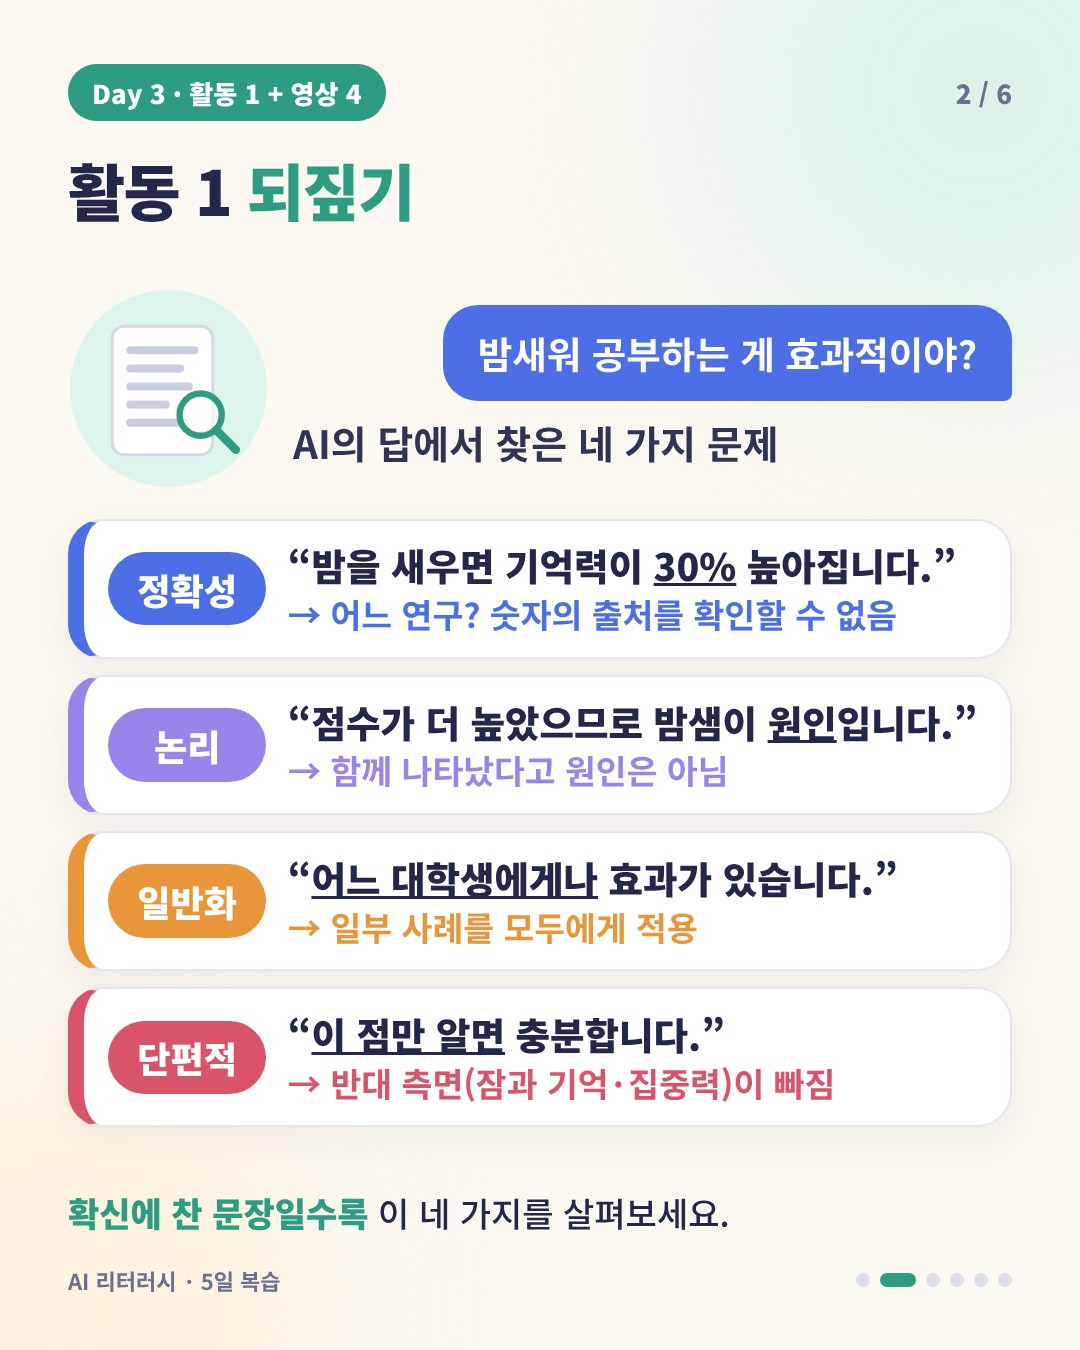
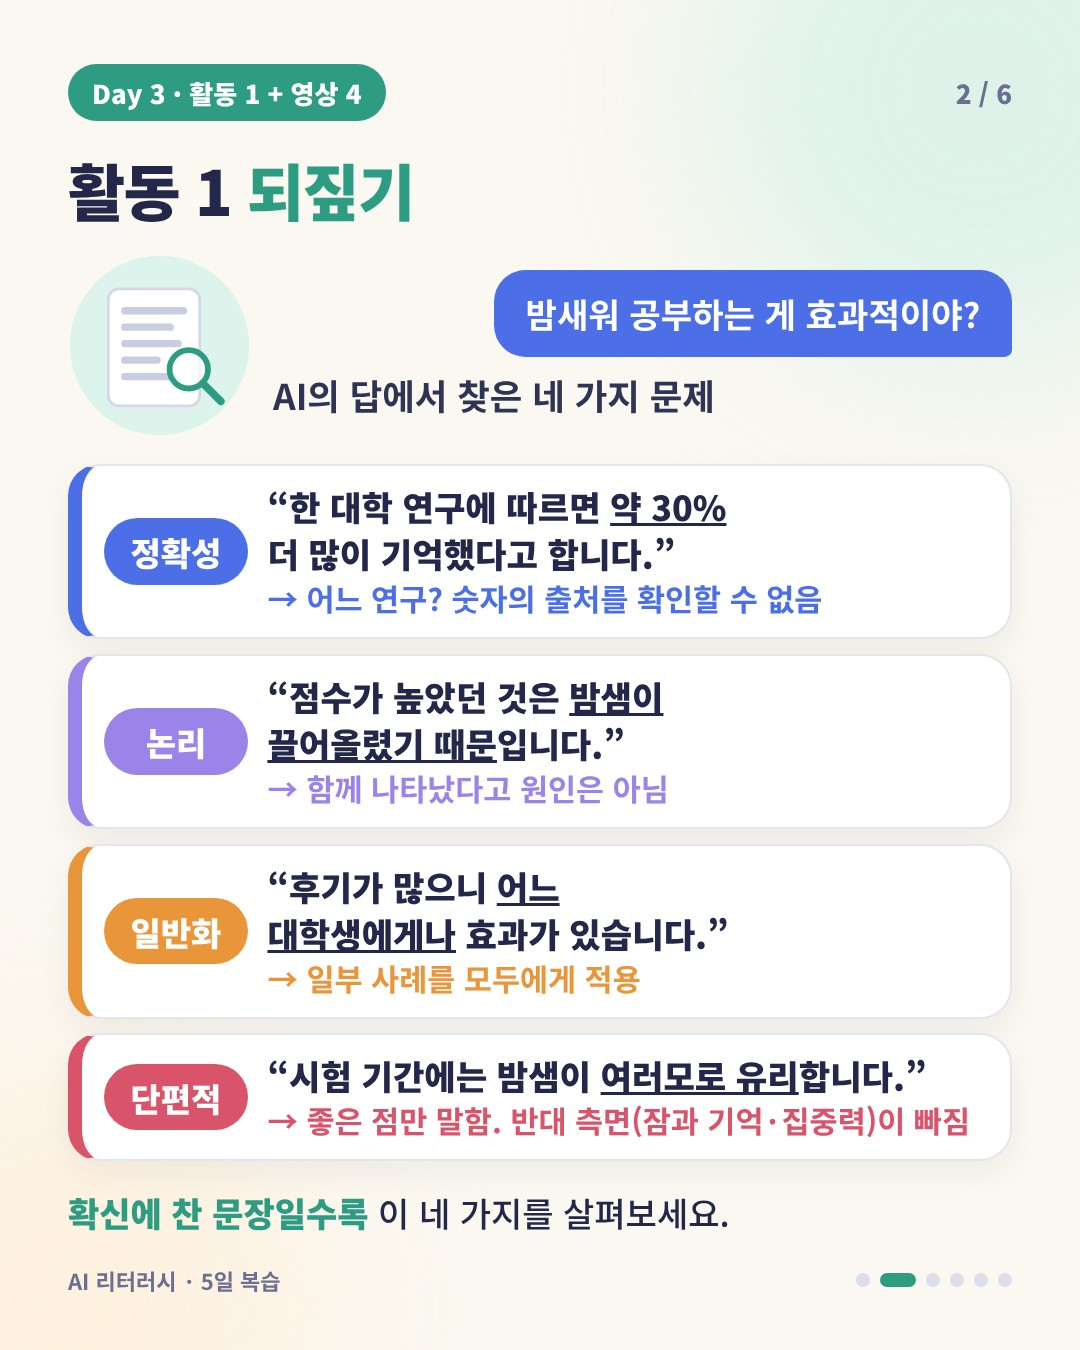
본실험 활동 1: AI 답변 문장을 더 그럴듯하게 수정 (문제 유형·정답은 그대로)
Day 3 카드뉴스 '활동 1 되짚기'도 새 문장에 맞춤.

Claude-Session: https://claude.ai/code/session_01Ufc7Ys7s9SLRNt97tr6RfZ

Changed region(s): [[0.0611, 0.1867, 0.9472, 0.8711]]

diff --git a/program-main.js b/program-main.js
@@ -177,10 +177,10 @@ function engageTrial(stepIdx, k) {
 const A1A_OPTS = ["두 가지가 함께 나타났다는 이유만으로 한쪽이 다른 쪽의 원인이라고 단정한다 (논리)", "좋은 점만 말하고 나쁜 점이나 반대되는 측면은 다루지 않는다 (단편적)",
   "어느 연구인지, 숫자가 어디서 나왔는지 확인할 수 없다 (정확성)", "일부 사례를 근거로 모든 사람에게 똑같이 통한다고 말한다 (일반화)", "문제없다"];
 const A1A_ITEMS = [
-  { id: "A1", key: 3, stem: "한 해외 연구에 따르면 시험 전날 밤을 새우면 기억력이 30% 높아집니다.", why: "어느 연구인지 알 수 없고 ‘30%’가 어디서 나온 숫자인지도 확인할 길이 없습니다." },
-  { id: "A2", key: 1, stem: "시험 전날 밤을 새운 학생들의 평균 점수가 더 높았으므로, 밤샘이 점수를 올린 원인입니다.", why: "두 가지가 함께 나타났다고 해서 밤샘이 원인이라고 할 수는 없습니다. 원래 열심히 하는 학생들이 밤도 새웠을 수 있습니다." },
-  { id: "A3", key: 4, stem: "밤샘으로 성적이 오른 학생이 몇 명 있으니, 이 방법은 어느 대학생에게나 효과가 있습니다.", why: "몇 사람의 사례를 모든 사람에게 그대로 적용했습니다. 사람·과목·시험 형식에 따라 다를 수 있습니다." },
-  { id: "A4", key: 2, stem: "밤을 새우면 공부할 시간이 늘어나고 조용해서 집중도 잘 되니, 밤샘에 대해서는 이 점만 알면 충분합니다.", why: "좋은 점만 말했습니다. 잠이 기억을 굳히는 데 중요하다는 점, 다음 날 집중력이 떨어진다는 점 같은 반대 측면이 빠져 있습니다." },
+  { id: "A1", key: 3, stem: "2024년 미국의 한 대학 연구에 따르면, 시험 전날 밤늦게까지 공부한 학생은 공부한 내용을 약 30% 더 많이 기억했다고 합니다.", why: "어느 대학의 어떤 연구인지 알 수 없고 ‘30%’가 어디서 나온 숫자인지도 확인할 길이 없습니다. 연도와 숫자가 구체적이어도 출처를 확인할 수 없으면 믿을 근거가 되지 않습니다." },
+  { id: "A2", key: 1, stem: "시험 전날 밤을 새운 학생들의 평균 점수가 그렇지 않은 학생들보다 높았는데, 이는 밤샘이 점수를 끌어올렸기 때문입니다.", why: "두 가지가 함께 나타났다고 해서 밤샘이 원인이라고 할 수는 없습니다. 원래 열심히 하는 학생들이 밤도 새웠을 수 있습니다." },
+  { id: "A3", key: 4, stem: "밤샘으로 성적이 올랐다는 대학생들의 후기도 많은 만큼, 이 방법은 어느 대학생에게나 효과가 있다고 볼 수 있습니다.", why: "일부 사람의 경험을 모든 사람에게 그대로 적용했습니다. 사람·과목·시험 형식에 따라 다를 수 있습니다." },
+  { id: "A4", key: 2, stem: "밤에는 공부할 시간이 늘어나고 주변이 조용해 집중도 잘 되기 때문에, 시험 기간에는 밤샘이 여러모로 유리합니다.", why: "좋은 점만 말했습니다. 잠이 기억을 굳히는 데 중요하다는 점, 다음 날 집중력이 떨어진다는 점 같은 반대 측면이 빠져 있습니다." },
   { id: "A5", key: 5, stem: "다만 공부 방식은 사람마다 다를 수 있으니, 자신에게 맞는 방법을 찾아보는 것도 좋습니다.", why: "단정하지 않고 개인차를 인정한 적절한 표현입니다." },
 ];
 // 1-B 영상 2 내용 퀴즈 (2026-11-23: 영상 1 문항을 빼고 영상 2 문항만, 적용·추론형으로 난도 올림. 영상 2 확인 문항은 영상 바로 뒤에 따로 물음)

diff --git a/daily-main.js b/daily-main.js
@@ -118,7 +118,7 @@ const cardTrial = {
     const show = () => {
       const [h, b] = D.cards[k];
       cn.innerHTML = CONFIG.CARD_IMAGES
-        ? `<img src="cards-main/day${DAY}_${k + 1}.jpg?v=1123j" alt="${esc(h + ". " + b.replace("{{change}}", ""))}">${b.includes("{{change}}") && myChange() ? `<div class="mychange">내가 적은 작은 변화: <b>${esc(myChange())}</b></div>` : ""}`
+        ? `<img src="cards-main/day${DAY}_${k + 1}.jpg?v=1123k" alt="${esc(h + ". " + b.replace("{{change}}", ""))}">${b.includes("{{change}}") && myChange() ? `<div class="mychange">내가 적은 작은 변화: <b>${esc(myChange())}</b></div>` : ""}`
         : `<div class="cn-in ${k === 0 ? "cover" : k === N - 1 ? "today" : ""}"><div class="cn-k">${k === 0 ? `Day ${DAY}` : k === N - 1 ? "오늘의 한 가지" : `${k} / ${N - 2}`}</div>
            <h2>${k === N - 1 ? "" : h}</h2><p>${b.replace("{{change}}", "")}</p>${b.includes("{{change}}") ? changeBox() : ""}</div>`;
       pos.textContent = `${k + 1} / ${N}`; prev.disabled = k === 0;

diff --git a/program.html b/program.html
@@ -18,6 +18,6 @@
 </head>
 <body>
 <div id="app"></div>
-<script src="program-main.js?v=1123p"></script>
+<script src="program-main.js?v=1123q"></script>
 </body>
 </html>

diff --git a/daily-main.html b/daily-main.html
@@ -18,6 +18,6 @@
 </head>
 <body>
 <div id="app"></div>
-<script src="daily-main.js?v=1123q"></script>
+<script src="daily-main.js?v=1123r"></script>
 </body>
 </html>
